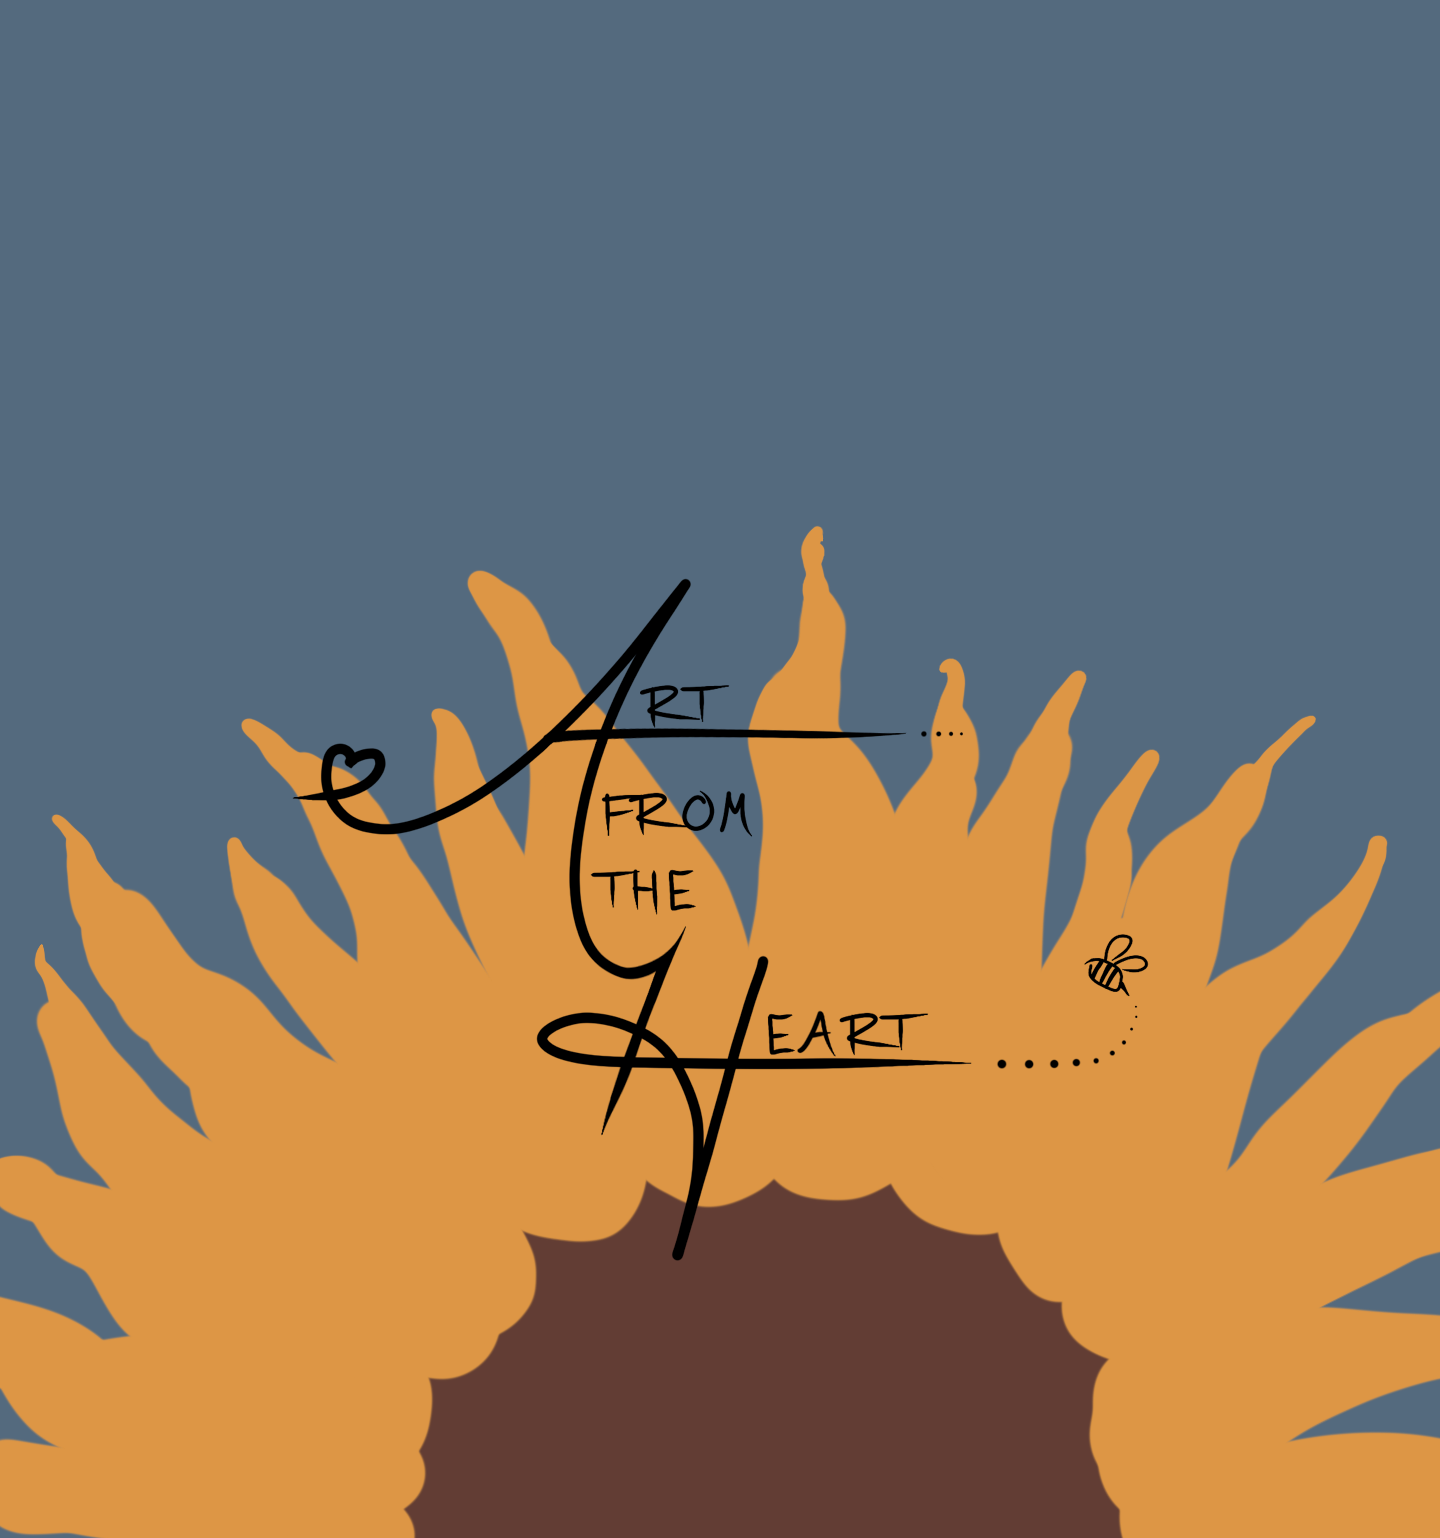
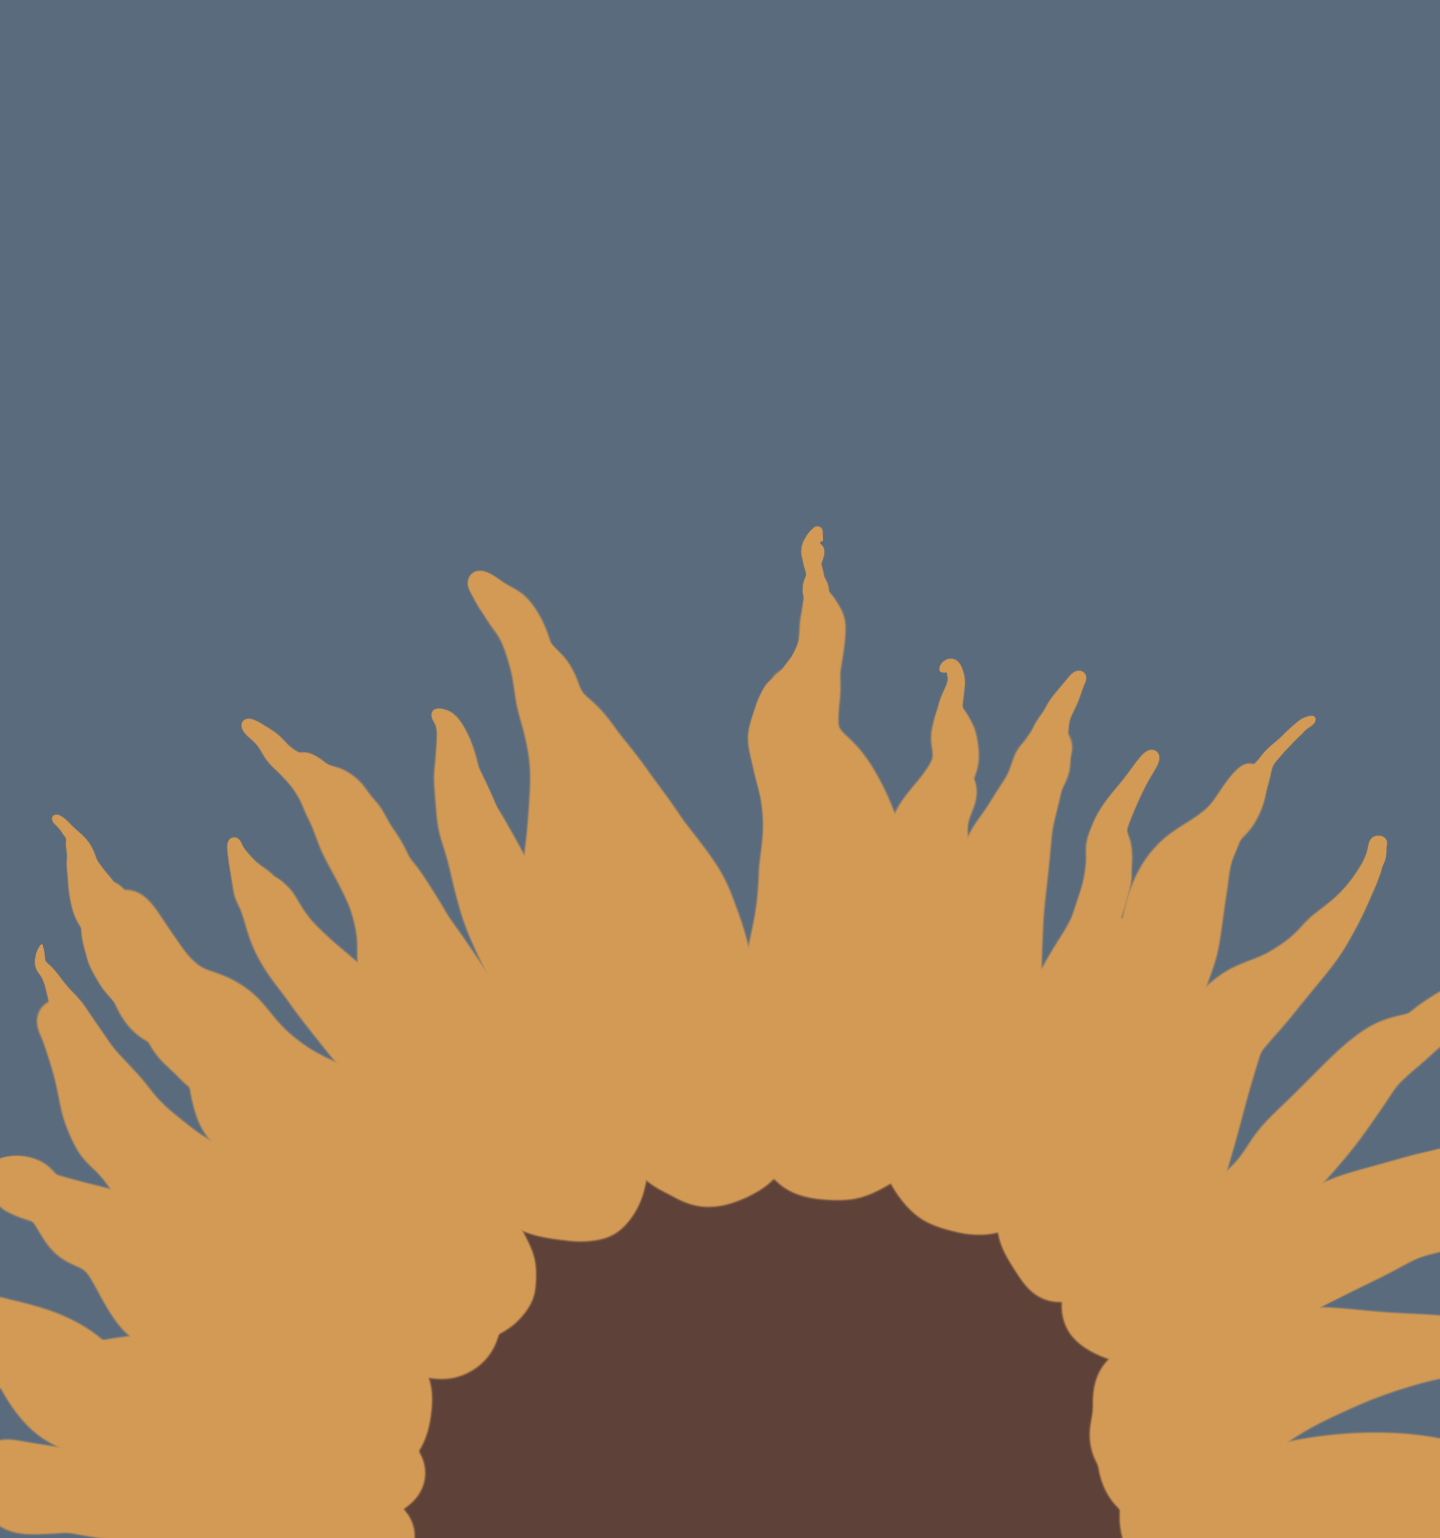
just messin around

Changed region(s): [[0.3125, 0.3745, 0.6562, 0.8114], [0.2188, 0.4681, 0.3125, 0.5618], [0.75, 0.593, 0.7812, 0.6554]]

diff --git a/html/index.html b/html/index.html
@@ -10,15 +10,21 @@
     
 </head>
 <body>
-    <!-- section for nav bar -->
+    
+    <div id="body">
+        <img src="../images/logo.png" alt="Logo" id="logo">
+        <!-- section for nav bar -->
     <div id="nav">
         <div id="navbar">
           <div class="nav-links">
-          <a href="">ON THE COURSE</a>
-          <a href="">OFF THE COURSE</a>
-          <a href="">LESSONS</a>
+          <a href="#new">What's New</a>
+          <a href="#apparel">Apparel</a>
+          <a href="#jewelry">Jewelry</a>
+          <a href="#decor">Decor</a>
+          <a href="#embroidery">Embroidery</a>
         </div>
       </div>
+      
     <!-- section for about kalin -->
     <div id="about">
         <h1>About Art from the Heart</h1>
@@ -32,37 +38,48 @@
     </div>
     <!-- shop section, broken down into several divs. one for the new items, maybe one for sales, and then one for each kind she makes -->
     <div id="shop">
-        <h1>Whats New!</h1>
         <div id="new">
+        <h1>Whats New!</h1>
+        <div id="new2">
             <a href="" target="_blank"><img src="../images/resin2.jpg" alt=""></a>
             <a href="" target="_blank"><img src="../images/shirt.jpg" alt=""></a>
             <a href="" target="_blank"><img src="../images/tape3.jpg" alt=""></a>
             <a href="" target="_blank"><img src="../images/succem.jpg" alt=""></a>
         </div>
+        </div>
         <!-- look into what other sections for the shop she needs -->
-        <h1>Apparel</h1>
         <div id="apparel">
+        <h1>Apparel</h1>
+        <div id="apparel2">
             <a href="" target="_blank"><img src="../images/shirt.jpg" alt=""></a>
             <a href="" target="_blank"><img src="../images/shirt2.jpg" alt=""></a>
             <a href="" target="_blank"><img src="../images/dress.jpg" alt=""></a>
         </div>
-        <h1>Jewelry</h1>
+        </div>
         <div id="jewelry">
+        <h1>Jewelry</h1>
+        <div id="jewelry2">
             <a href="" target="_blank"><img src="../images/resin1.png" alt=""></a>
             <a href="" target="_blank"><img src="../images/resin2.jpg" alt=""></a>
             <a href="" target="_blank"><img src="../images/resin3.png" alt=""></a>
         </div>
-        <h1>Decor</h1>
+        </div>
         <div id="decor">
+        <h1>Decor</h1>
+        <div id="decor2">
             <a href="" target="_blank"><img src="../images/tape.jpeg" alt=""></a>
             <a href="" target="_blank"><img src="../images/tape2.jpg" alt=""></a>
             <a href="" target="_blank"><img src="../images/tape3.jpg" alt=""></a>
         </div>
-        <h1>Embroidery</h1>
+        </div>
+    
         <div id="embroidery">
+        <h1>Embroidery</h1>
+        <div id="embroidery2">
             <a href="" target="_blank"><img src="../images/gay.jpg" alt=""></a>
             <a href="" target="_blank"><img src="../images/beauty.jpg" alt=""></a>
             <a href="" target="_blank"><img src="../images/succem.jpg" alt=""></a>
+        </div>
         </div>
         
     </div>
@@ -71,7 +88,7 @@
         <h1>Contact</h1>
         <p>artfromtheheart@gmail.com</p>
     </div>
-    
+    </div>
    
 </body>
 <script src="../js/index.js"></script>

diff --git a/styles/style.css b/styles/style.css
@@ -26,18 +26,31 @@ h1{
     margin-top: 10%;
 }
 
-#new,
-#apparel,
-#jewelry,
-#decor,
-#embroidery{
+#new2,
+#apparel2,
+#jewelry2,
+#decor2,
+#embroidery2{
     display: flex;
     justify-content: space-evenly;
     margin: 5% 15% 10% 15%;
 }
 }
+body {
+    margin: 0%;
+}
+
 #body{
     margin: 0%;
+    
+}
+#logo{
+    transform: none;
+    margin: auto;
+    width: 500px;
+    height: auto;
+   
+
 }
 #navbar{
     background-color: transparent;
@@ -46,9 +59,12 @@ h1{
     display: flex;
     /* width: 100%; */
     z-index: 2;
+    position: fixed;
+    top: 0;
+    right: 0;
 }
 #navbar a{
-    color: #A6A6A6;
+    color: white;
     font-family: 'Asap', sans-serif;
     font-size: 18px;
     text-decoration: none;
@@ -58,9 +74,18 @@ h1{
     align-items: right;
     text-align: center;
 }
+.nav-links{
+    padding-left: 100px;   
+    margin-left: 50px;
+    width: 85%;
+    margin-top: 5%;
+    justify-content: center;
+    align-items: center;
+    text-align: right;
+}
 
 
-body{
+#body{
     background-image: url(../images/finished2.png);
     background-repeat: no-repeat;
     background-size: 100% 100%;
